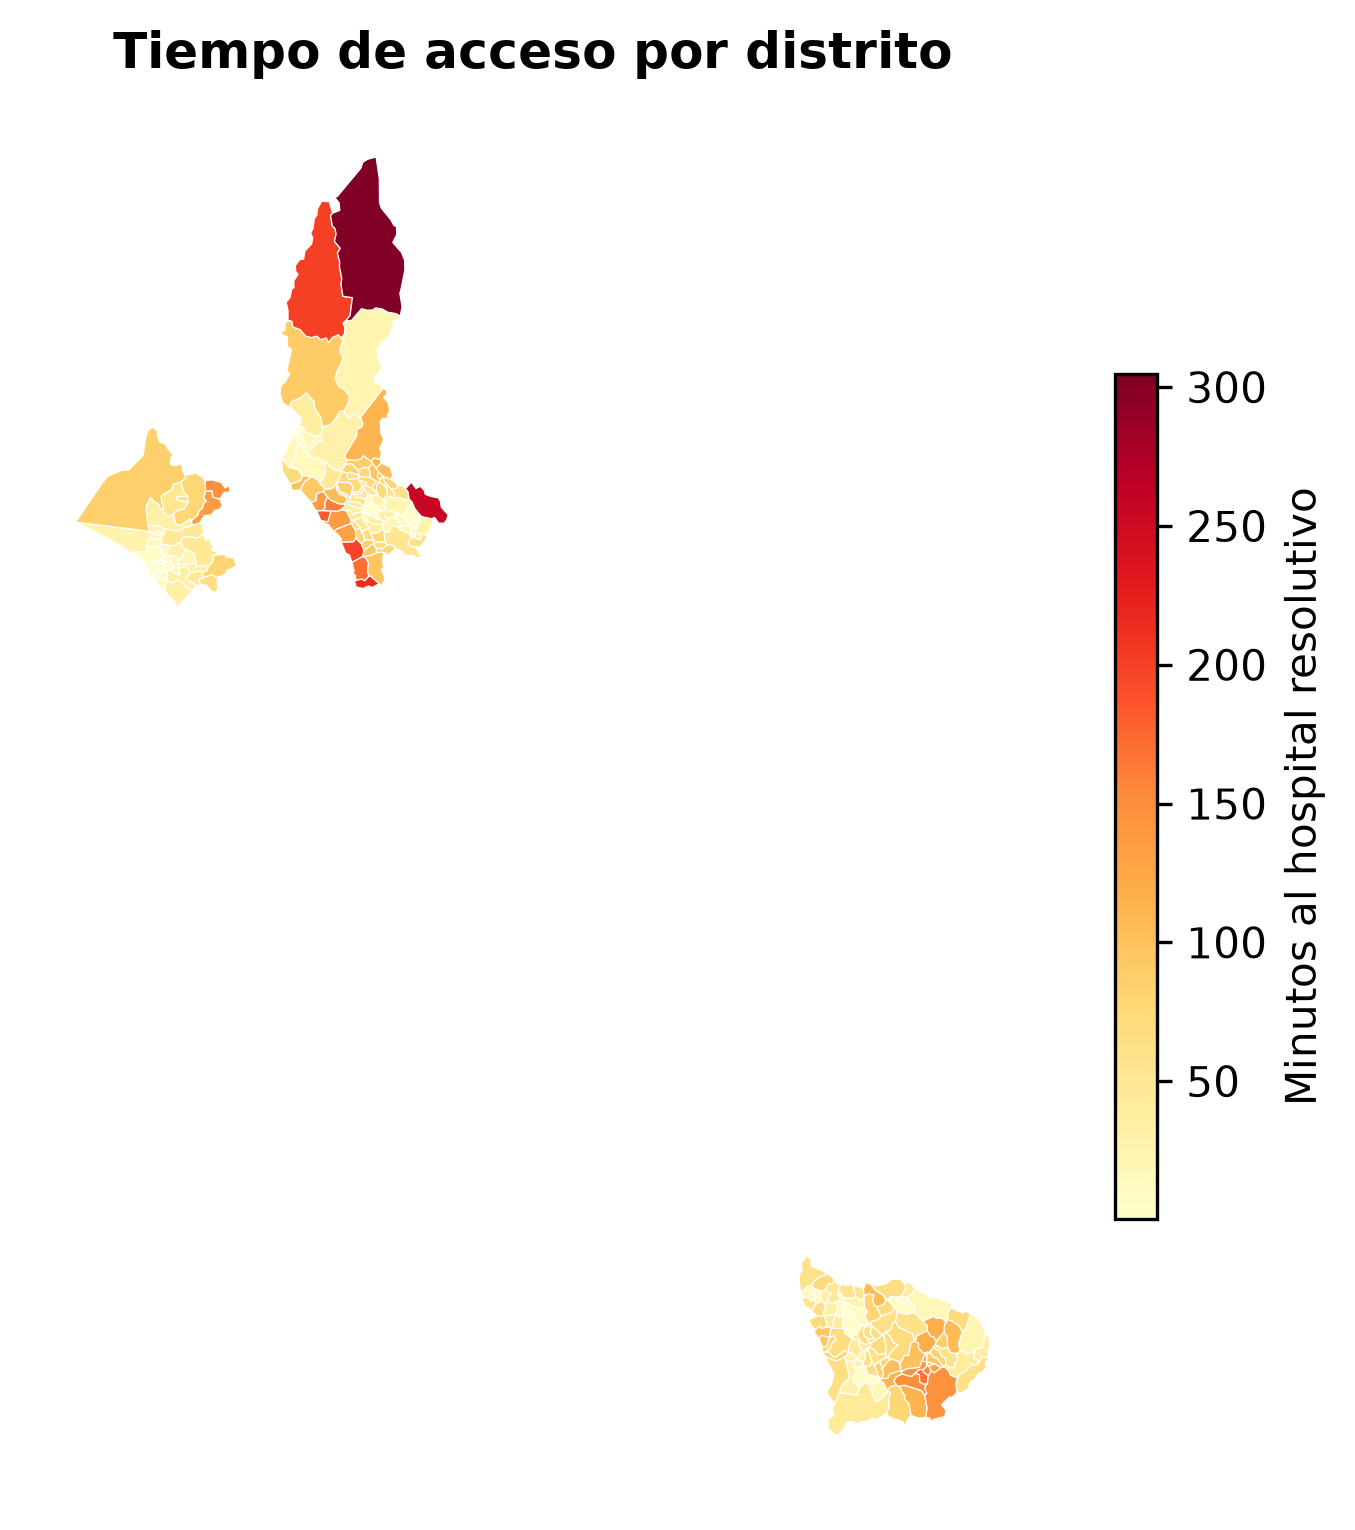
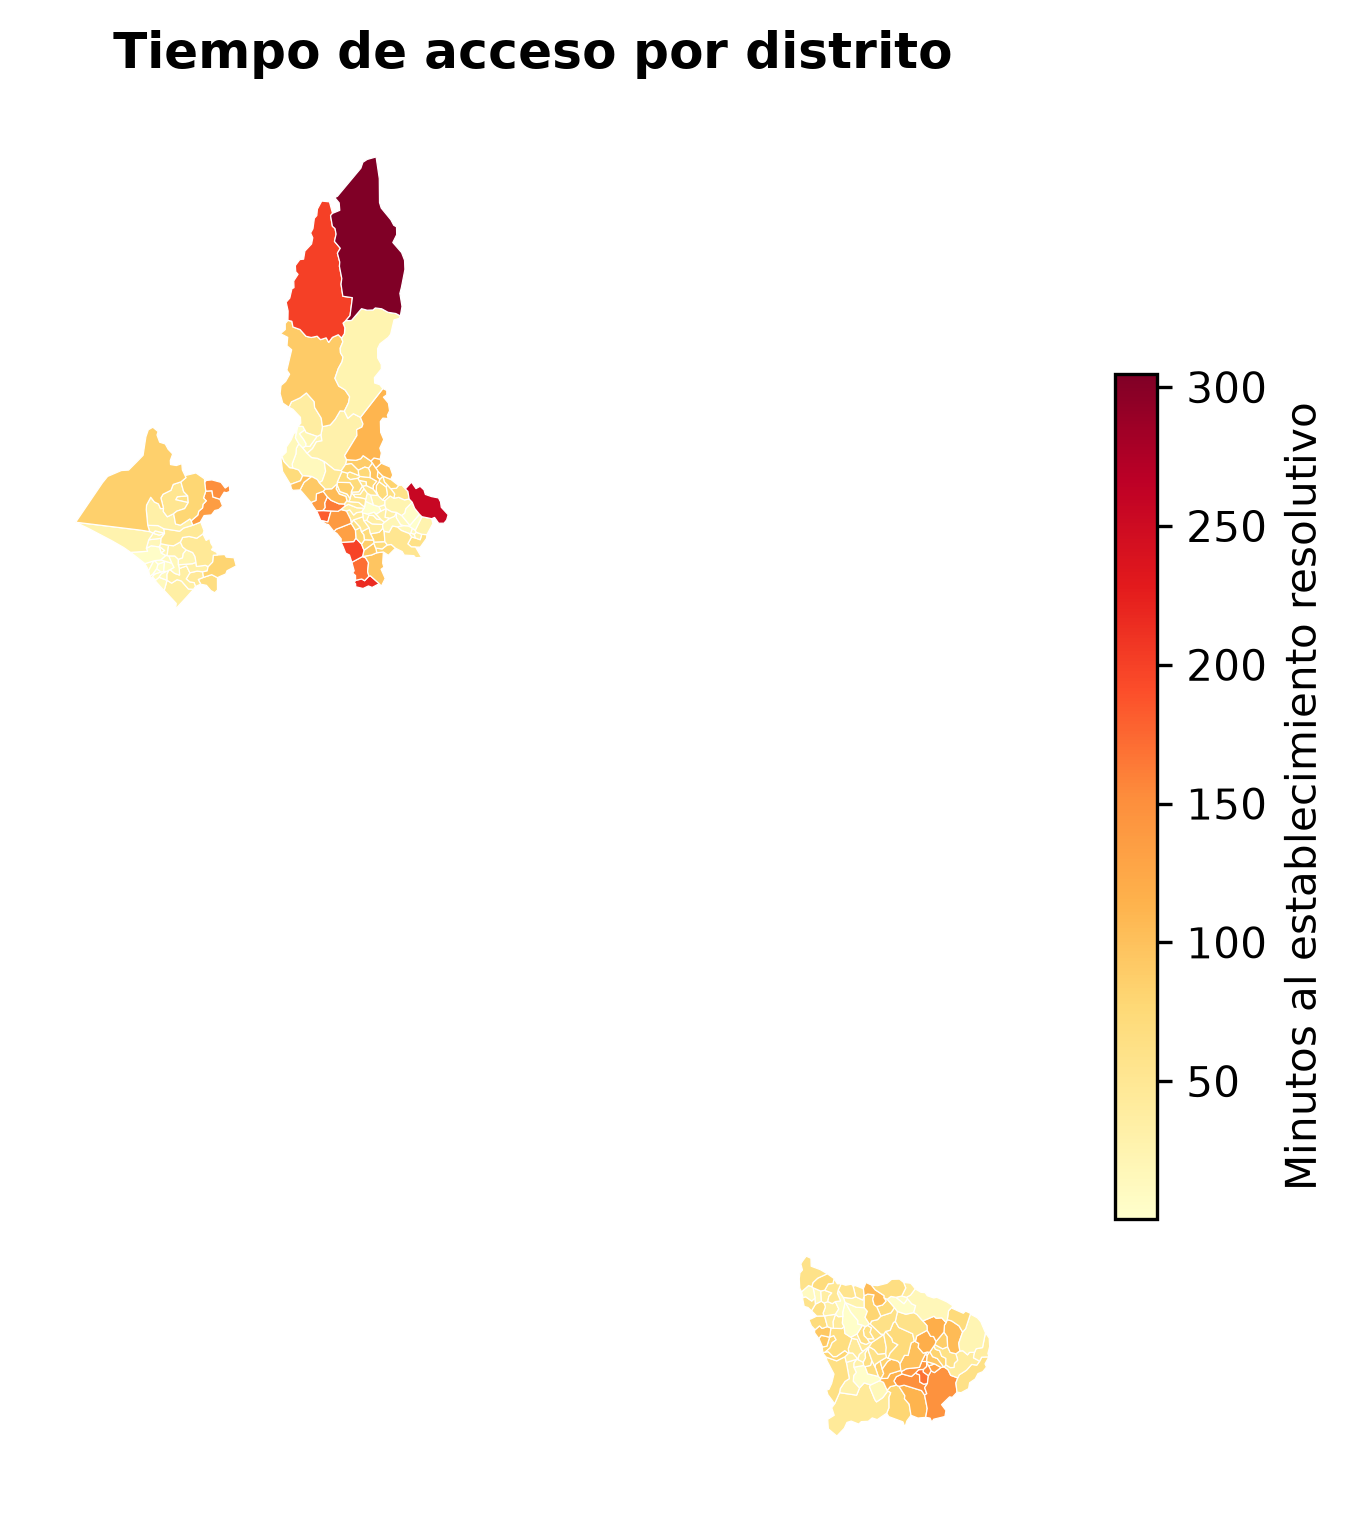
Dashboard: sección 'Análisis de equidad' + término 'establecimiento de salud'
- app.py: nueva sección con Gini global (recalculado según escenario),
  correlaciones acceso-pobreza/IDH, y 3 barras (urbano/rural, cuartil de
  pobreza distrital, tercil de altitud). Todo reacciona al simulador.
  Tabla de peores distritos ahora incluye % de pobreza.
- Unificado el término a 'establecimiento de salud' (antes mezclaba
  'hospital'): app.py, fase5_figuras.py (etiquetas de figuras), informe.tex.
- Regeneradas fig_hist_acceso y fig_choropleth con las nuevas etiquetas.

Nota: report/informe.pdf debe recompilarse en Overleaf (cambió el .tex y 2
figuras).

Changed region(s): [[0.9299, 0.2765, 0.9919, 0.768]]

diff --git a/app.py b/app.py
@@ -6,9 +6,10 @@ Funciona 100 % offline con los artefactos precomputados de ``data/outputs/`` y l
 matriz O-D versionada (``data/processed/od_matrix.parquet``).
 
 Contiene: cabecera de KPIs, choropleth distrital por tiempo de acceso, capa de
-establecimientos (toggle), histograma de la distribución, tabla de distritos
-ordenable, simulador de escenarios (cerrar establecimientos / añadir uno nuevo) y
-panel de calidad de datos.
+establecimientos de salud (toggle), histograma de la distribución, análisis de
+equidad (Gini + acceso por ámbito urbano/rural, cuartil de pobreza y tercil de
+altitud), tabla de distritos, simulador de escenarios (cerrar establecimientos /
+añadir uno nuevo) y panel de calidad de datos. Todo se recalcula con el escenario.
 """
 from __future__ import annotations
 
@@ -58,11 +59,23 @@ def weighted_bands(t: pd.Series, w: pd.Series) -> dict:
     return d
 
 
+def weighted_gini(v: pd.Series, w: pd.Series) -> float:
+    v, w = np.asarray(v, float), np.asarray(w, float)
+    m = np.isfinite(v) & np.isfinite(w) & (w > 0)
+    v, w = v[m], w[m]
+    if v.size == 0 or v.sum() == 0:
+        return float("nan")
+    o = np.argsort(v)
+    v, w = v[o], w[o]
+    cw, cvw = np.cumsum(w), np.cumsum(v * w)
+    return float(1 - np.sum((cvw[1:] + cvw[:-1]) * np.diff(cw)) / (cvw[-1] * cw[-1]))
+
+
 st.title("Accesibilidad vial a servicios de emergencia resolutivos")
 st.caption(
     f"Departamentos: {', '.join(CFG['departments'].values())}  ·  "
-    f"Establecimientos II-1+  ·  Hora dorada = {GOLDEN} min  ·  "
-    "Perfil: conducción"
+    f"Establecimientos de salud resolutivos (categoría II-1+)  ·  "
+    f"Hora dorada = {GOLDEN} min  ·  Perfil: conducción"
 )
 
 try:
@@ -129,7 +142,7 @@ mean_scen = np.average(scen_best, weights=w)
 # ------------------------------------------------------------------ KPIs
 c1, c2, c3, c4 = st.columns(4)
 c1.metric("Centros poblados", f"{len(base_best):,}")
-c2.metric("Establecimientos resolutivos", int(summary["n_establecimientos_resolutivos"]) - len(closed),
+c2.metric("Establecimientos de salud", int(summary["n_establecimientos_resolutivos"]) - len(closed),
           delta=(-len(closed) or None))
 c3.metric("Tiempo medio de acceso", f"{mean_scen:.1f} min",
           delta=f"{mean_scen - mean_base:+.1f}", delta_color="inverse")
@@ -155,7 +168,7 @@ with left:
         folium.Choropleth(
             geo_data=gg.to_json(), data=gg, columns=["ubigeo_distrito", "acceso_min"],
             key_on="feature.properties.ubigeo_distrito", fill_color="YlOrRd",
-            nan_fill_color="lightgray", legend_name="Minutos al hospital resolutivo",
+            nan_fill_color="lightgray", legend_name="Minutos al establecimiento resolutivo",
         ).add_to(m)
         show_fac = st.checkbox("Mostrar establecimientos", value=True)
         if show_fac:
@@ -172,7 +185,7 @@ with left:
         st.info("Falta `data/outputs/metrics_distrito.gpkg` (se genera en la Fase 3 "
                 "con `peru_distritos.geojson`). Se muestra tabla en su lugar.")
         st.dataframe(dmet.sort_values("acceso_min", ascending=False), hide_index=True,
-                     use_container_width=True)
+                     width='stretch')
 
 # ------------------------------------------------------------------ right column
 with right:
@@ -182,19 +195,78 @@ with right:
                        labels={"value": "minutos", "count": "centros poblados"})
     fig.add_vline(x=GOLDEN, line_dash="dash", line_color="red")
     fig.update_layout(showlegend=False, height=260, margin=dict(l=0, r=0, t=10, b=0))
-    st.plotly_chart(fig, use_container_width=True)
+    st.plotly_chart(fig, width='stretch')
 
     st.subheader("Cobertura ponderada por población")
     st.dataframe(pd.Series(weighted_bands(scen_best, w)).round(1).rename("% población")
-                 .to_frame(), use_container_width=True)
+                 .to_frame(), width='stretch')
+
+# ------------------------------------------------------------------ equidad
+st.divider()
+st.subheader("Análisis de equidad")
+st.caption("Tiempo medio de acceso ponderado por población, recalculado según el "
+           "escenario seleccionado.")
+
+import plotly.express as px
+
+eq = ccpp[["ccpp_id"]].copy()
+for col in ("ambito_uro", "pobreza_cuartil", "altitud_tercil"):
+    if col in ccpp.columns:
+        eq[col] = ccpp[col].values
+eq["min"] = eq["ccpp_id"].map(scen_best)
+eq["pob"] = eq["ccpp_id"].map(w)
+eq = eq.dropna(subset=["min", "pob"])
+
+
+def _wm_by(col: str, orden=None) -> pd.DataFrame:
+    g = eq.dropna(subset=[col])
+    r = (g.groupby(col, observed=True)
+           .apply(lambda x: np.average(x["min"], weights=x["pob"]), include_groups=False)
+           .rename("Acceso medio (min)").reset_index())
+    if orden:
+        r[col] = pd.Categorical(r[col], categories=orden, ordered=True)
+        r = r.sort_values(col)
+    return r
+
+
+def _bar(df, col, titulo):
+    fig = px.bar(df, x=col, y="Acceso medio (min)", text_auto=".0f",
+                 color="Acceso medio (min)", color_continuous_scale="YlOrRd")
+    fig.add_hline(y=GOLDEN, line_dash="dash", line_color="red")
+    fig.update_layout(height=240, showlegend=False, coloraxis_showscale=False,
+                      title=titulo, margin=dict(l=0, r=0, t=30, b=0),
+                      xaxis_title=None)
+    return fig
+
+
+e1, e2, e3, e4 = st.columns([1, 1.3, 1.5, 1.3])
+with e1:
+    st.metric("Gini de acceso", f"{weighted_gini(scen_best, w):.3f}")
+    st.caption(
+        f"Correlación con % de pobreza: r = {summary.get('correlacion_acceso_pobreza', '—')}"
+        f"  \nCorrelación con IDH: r = {summary.get('correlacion_acceso_idh', '—')}"
+    )
+with e2:
+    if "ambito_uro" in eq.columns:
+        st.plotly_chart(_bar(_wm_by("ambito_uro", ["urbano", "rural"]),
+                             "ambito_uro", "Urbano vs. rural"), width='stretch')
+with e3:
+    if "pobreza_cuartil" in eq.columns:
+        st.plotly_chart(_bar(_wm_by("pobreza_cuartil"),
+                             "pobreza_cuartil", "Por cuartil de pobreza distrital"),
+                        width='stretch')
+with e4:
+    if "altitud_tercil" in eq.columns:
+        st.plotly_chart(_bar(_wm_by("altitud_tercil", ["bajo", "medio", "alto"]),
+                             "altitud_tercil", "Por tercil de altitud"), width='stretch')
 
 # ------------------------------------------------------------------ ranked table
 st.divider()
 st.subheader("Distritos con peor acceso")
 tbl = dmet.merge(dist, on="ubigeo_distrito", how="left").sort_values("acceso_min", ascending=False)
-show = [c for c in ["ubigeo_distrito", "departamento", "n_ccpp", "poblacion",
-                    "acceso_min", "pct_fuera_hora_dorada", "gini_acceso"] if c in tbl.columns]
-st.dataframe(tbl[show].head(20), hide_index=True, use_container_width=True)
+show = [c for c in ["ubigeo_distrito", "departamento", "n_ccpp", "poblacion", "acceso_min",
+                    "pct_fuera_hora_dorada", "gini_acceso", "pct_pobreza_total"] if c in tbl.columns]
+st.dataframe(tbl[show].head(20), hide_index=True, width='stretch')
 
 # ------------------------------------------------------------------ quality
 st.divider()

diff --git a/report/informe.tex b/report/informe.tex
@@ -57,7 +57,8 @@ los establecimientos de categor\'ia II-1 y superiores; los de primer nivel
 establecimiento resolutivo es, por tanto, un indicador directo de equidad
 territorial en salud.
 
-La distancia en l\'inea recta a un hospital subestima sistem\'aticamente ese
+La distancia en l\'inea recta a un establecimiento de salud subestima
+sistem\'aticamente ese
 tiempo, sobre todo en zonas andinas y amaz\'onicas donde la red vial es
 sinuosa, discontinua o inexistente y el relieve impone grandes rodeos. Medir
 el \emph{tiempo de viaje por carretera} --- y no la distancia --- es lo que
@@ -209,7 +210,7 @@ indicadores, el \emph{choropleth} distrital y la distribuci\'on del tiempo de
 acceso, incorpora un \textbf{simulador de escenarios} con dos modos: (i)
 \emph{cerrar} uno o varios establecimientos y recalcular al vuelo el tiempo
 m\'inimo de cada centro poblado a partir de la matriz --- lo que revela la
-contribuci\'on de cada hospital a la cobertura ---, y (ii) \emph{a\~nadir} un
+contribuci\'on de cada establecimiento a la cobertura ---, y (ii) \emph{a\~nadir} un
 establecimiento resolutivo hipot\'etico en un distrito, estimando el efecto con
 distancia directa. El panel muestra en tiempo real el cambio en el porcentaje
 de poblaci\'on fuera de la hora dorada respecto a la situaci\'on actual.
@@ -219,7 +220,7 @@ de poblaci\'on fuera de la hora dorada respecto a la situaci\'on actual.
 \begin{figure}[H]
   \centering
   \includegraphics[width=0.72\linewidth]{fig_hist_acceso.png}
-  \caption{Distribuci\'on del tiempo de acceso al hospital resolutivo m\'as
+  \caption{Distribuci\'on del tiempo de acceso al establecimiento de salud resolutivo m\'as
   cercano (conducci\'on). La l\'inea marca la hora dorada.}
   \label{fig:hist}
 \end{figure}
@@ -260,7 +261,7 @@ fuente: \texttt{data/outputs/summary.json}).
         (\SI{4.1}{\percent} a m\'as de \num{120}~min). Cobertura acumulada:
         \SI{69.4}{\percent} a \num{30}~min, \SI{83.4}{\percent} a \num{60}~min.
   \item Tiempo medio ponderado \num{30.9}~min; mediana de centros poblados
-        \num{63.8}~min: la poblaci\'on se concentra cerca de los hospitales,
+        \num{63.8}~min: la poblaci\'on se concentra cerca de los establecimientos de salud,
         pero la mayor\'ia de localidades peque\~nas queda lejos.
   \item \textbf{Gini de acceso: \num{0.66}}.
   \item Urbano vs rural: \num{11.4}~min vs \num{62.9}~min.
@@ -361,7 +362,8 @@ tiempo de respuesta operativo. Las principales limitaciones son:
         \'ultimo censo y no capta la migraci\'on posterior.
   \item \textbf{Efectos de borde.} S\'olo se consideran establecimientos
         dentro de los tres departamentos; poblaci\'on cercana a un l\'imite
-        podr\'ia tener m\'as cerca un hospital de la regi\'on vecina.
+        podr\'ia tener m\'as cerca un establecimiento de salud de la regi\'on
+        vecina.
 \end{itemize}
 
 \section{Conclusiones}

diff --git a/src/fase5_figuras.py b/src/fase5_figuras.py
@@ -58,7 +58,7 @@ def build() -> None:
     fig, ax = plt.subplots(figsize=(5.4, 3.2))
     ax.hist(t.clip(upper=240), bins=40, color=INK, alpha=0.85)
     ax.axvline(GOLDEN, color=ACCENT, ls="--", lw=1.5, label=f"Hora dorada ({GOLDEN} min)")
-    ax.set_xlabel("Tiempo al hospital resolutivo más cercano (min, en coche)")
+    ax.set_xlabel("Tiempo al establecimiento de salud resolutivo más cercano (min, coche)")
     ax.set_ylabel("N.º de centros poblados")
     ax.set_title("Distribución del tiempo de acceso")
     ax.legend(frameon=False)
@@ -108,7 +108,7 @@ def build() -> None:
         g.plot(column=col, cmap="YlOrRd", legend=True, ax=ax,
                edgecolor="white", linewidth=0.3,
                missing_kwds={"color": "lightgray"},
-               legend_kwds={"label": "Minutos al hospital resolutivo", "shrink": 0.6})
+               legend_kwds={"label": "Minutos al establecimiento resolutivo", "shrink": 0.6})
         ax.set_axis_off()
         ax.set_title("Tiempo de acceso por distrito", fontweight="bold")
         fig.savefig(figs / "fig_choropleth.png", bbox_inches="tight"); plt.close(fig)
